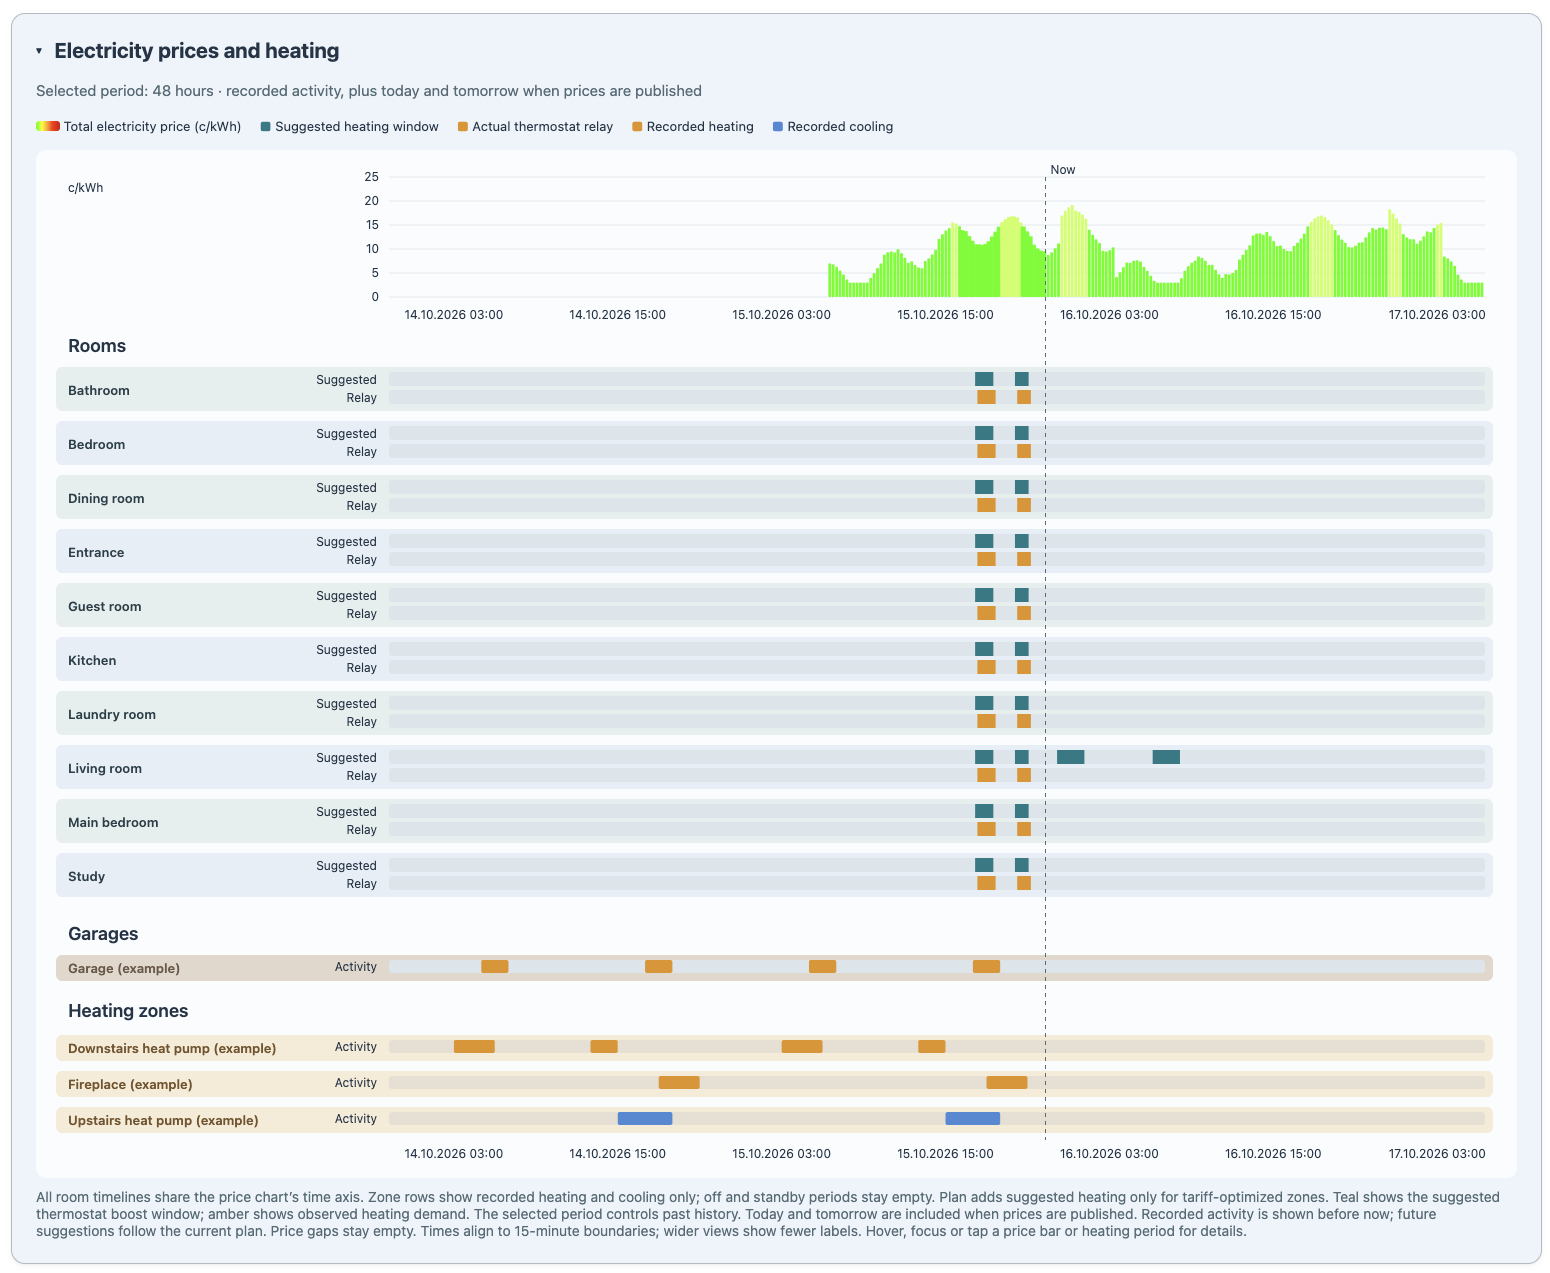
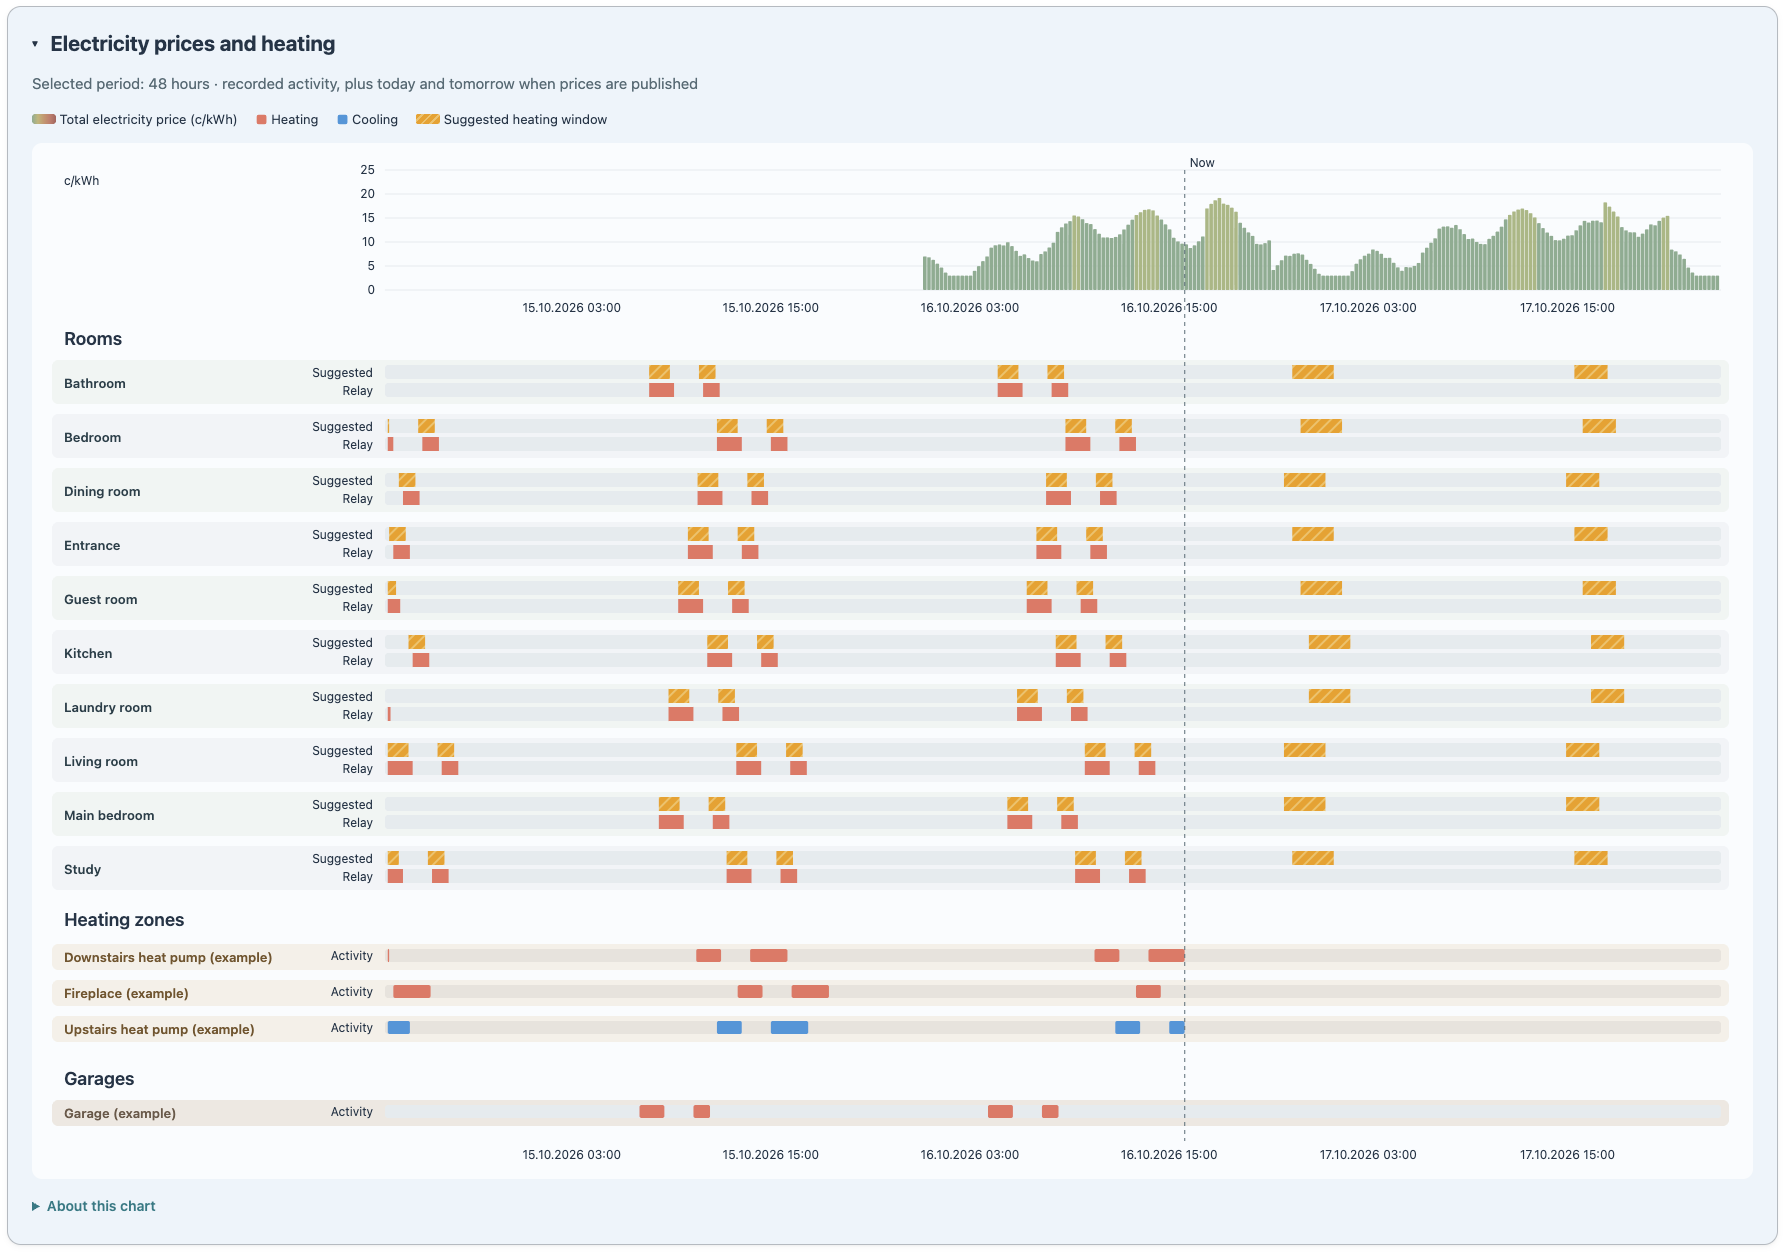
Refresh Plan, History and heat retention screenshots
Use current chart colors, weather timeline, striped suggestions and numeric alignment. Update gallery descriptions and screenshot maintenance references.

diff --git a/docs/GALLERY.md b/docs/GALLERY.md
@@ -4,7 +4,7 @@ Examples from the offline preview and a configured Home Assistant installation.
 Room names, selected sensors, activity and values are illustrative, not preset
 defaults or measured performance claims.
 
-![Electricity prices with suggested heating windows and observed thermostat activity](screenshots/electricity-and-heating.png)
+![Hourly weather, electricity prices, recorded heating and cooling, and striped heating suggestions](screenshots/electricity-and-heating.png)
 
 <details>
 <summary>Heat retention, room plans and history</summary>
@@ -19,7 +19,7 @@ defaults or measured performance claims.
 
 ### Heating history
 
-![Recorded room heating, garage activity and zone heating and cooling timelines](screenshots/electricity-and-heating-history.png)
+![Recorded heating and cooling alongside suggested heating, grouped into rooms, heating zones and garages](screenshots/electricity-and-heating-history.png)
 
 ### Room history
 

diff --git a/docs/SCREENSHOTS.md b/docs/SCREENSHOTS.md
@@ -9,7 +9,9 @@ Replace files in `docs/screenshots/` using these stable names:
 
 | File | View |
 | --- | --- |
-| electricity-and-heating.png | Electricity prices, suggested heating and actual relay history |
+| electricity-and-heating.png | Plan: hourly weather, electricity prices, heating, cooling and striped suggestions |
+| electricity-and-heating-history.png | History: recorded and suggested heating, zone activity and garages |
+| room-heat-retention.png | Sortable heat-retention estimates with numeric alignment and cooling-speed badges |
 | room-plan.png | Expanded room on Plan |
 | room-history.png | Expanded room on History, including saved forecast accuracy |
 | integration-settings.png | ThermalPilot settings |
